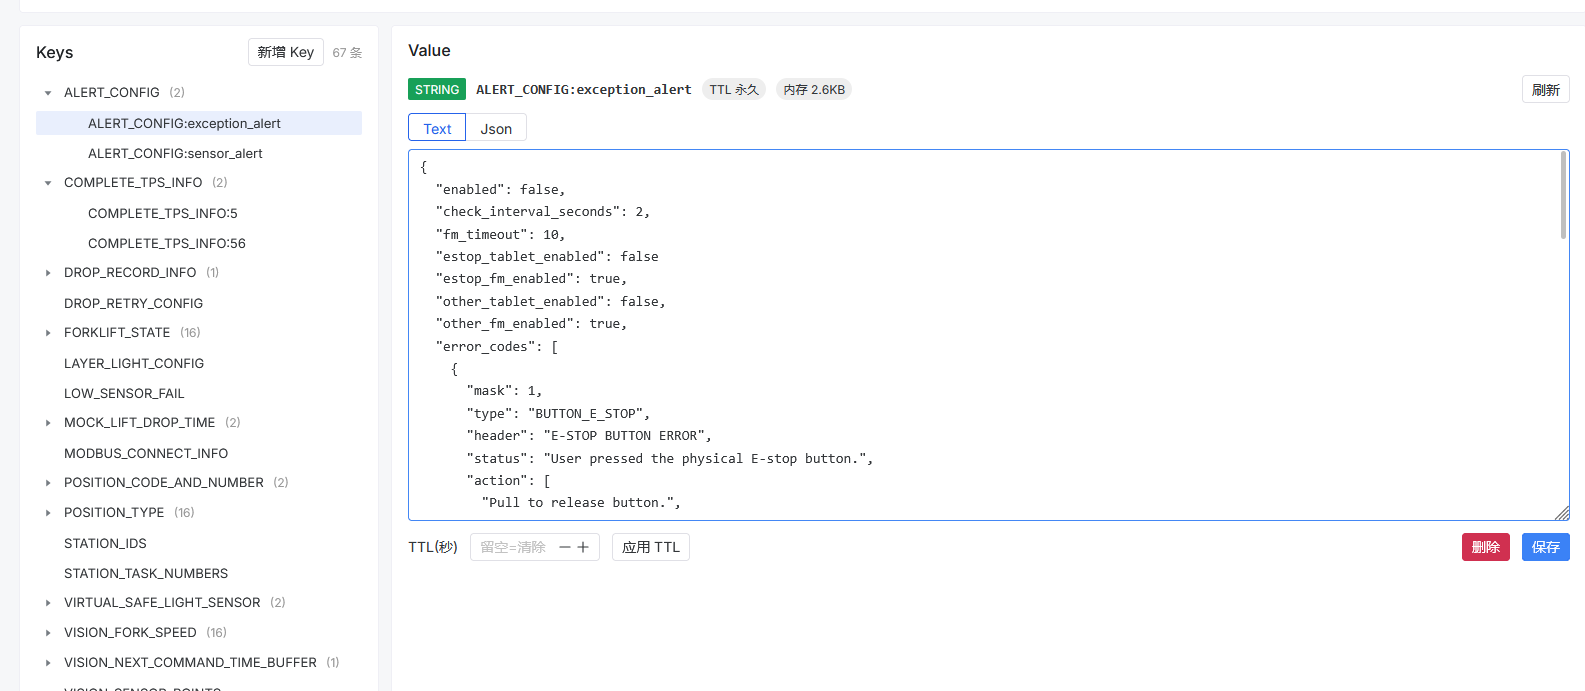
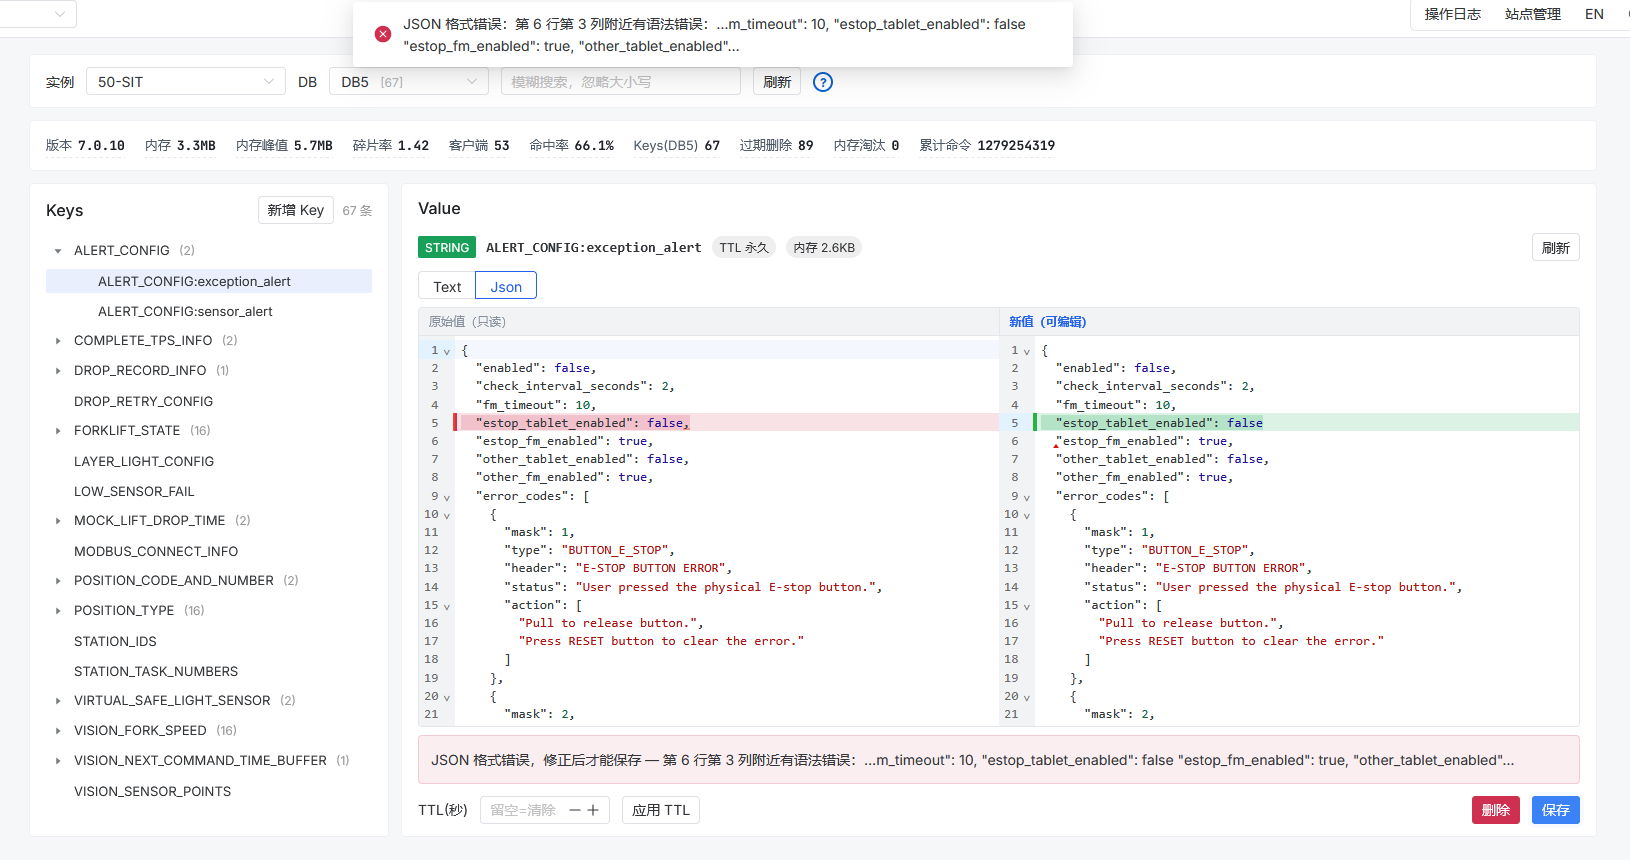
polish: compact axis labels, (Ns) rate labels, mq column rename + verified consumers, audit 200/10pp, redis 3s delete
Server:
- trend x-axis: mm:ss ticks (HH:mm:ss only on the first tick of a new
  hour), 8 labels, 10px, hideOverlap - seconds stay visible, no more
  sparse long labels
- top-processes command cell: :title full-text on hover
- metric card titles uniformly (3s)-suffixed; trend title simplified
  to 'CPU / 内存趋势 (3s)'; zombie modal reuses zombieList key to
  avoid double-suffix

MQ:
- honest rate labels: Heap cards (5s) (3s poll over 5s cache), Top-10
  backlog (15s); verbose '约 5s 采样' forms removed
- Top-10 bar tooltip now includes the queue's Address
- queue table headers: 逻辑名称 (Queue/订阅) / 物理地址 (Address)
- consumers column verified accurate: 12 queues cross-checked against
  direct Jolokia reads on both broker instances, all matched
  (ConsumerCount is the only valid per-queue attribute;
  TotalConsumerCount does not exist on queue mbeans)

Redis / audit:
- key-delete countdown 5s -> 3s
- invalid-JSON banner compacted (theme-var padding/fontSize, shake kept)
- oplog retention 1000 -> 200 (test now verifies the 200 cap), audit
  page 10 rows/page, time column single-line (165px nowrap), target
  column narrowed, hint simplified to '仅保留最近 200 条' (PRD suffix
  dropped), result column kept-but-compact (SSH/MQ/Redis failures are
  recorded FAILED with error text)

103 backend tests, 13 frontend tests, build green. Stamp b0929-1759.

diff --git a/frontend/src/i18n/index.ts b/frontend/src/i18n/index.ts
@@ -12,7 +12,7 @@ const messages = {
         lines: [
           '本页展示当前站点的整体健康状态：各资源类型的数量与最严重诊断级别。',
           '任一资源异常都会汇总到「异常摘要」，点击卡片可跳转到对应模块。',
-          '「最近操作」来自操作日志（保留最近 1000 条），记录所有修改/删除类操作。',
+          '「最近操作」来自操作日志（保留最近 200 条），记录所有修改/删除类操作。',
           '后台每 30 秒对全部启用资源做一轮轻量健康检查；也可点击「立即检查」手动触发。',
         ],
       },
@@ -103,14 +103,14 @@ const messages = {
       select: '选择服务器',
       noServers: '该站点暂无 Server 资源',
       refresh: '刷新',
-      cpu: 'CPU',
-      memory: '内存',
-      network: '网络',
-      disk: '磁盘',
+      cpu: 'CPU (3s)',
+      memory: '内存 (3s)',
+      network: '网络 (3s)',
+      disk: '磁盘 (3s)',
       diskTable: '磁盘 (3s)',
       topProcesses: 'Top 进程 (3s)',
       autoRefresh: '数据每 3 秒自动刷新',
-      trend: 'CPU / 内存趋势（3s 轮询采样）',
+      trend: 'CPU / 内存趋势 (3s)',
       issues: '诊断问题',
       level: '级别',
       type: '类型',
@@ -144,7 +144,7 @@ const messages = {
       issue_LOAD_HIGH: '系统负载 {value}（阈值 {threshold}，超过核数说明任务在排队）',
       emptyMetrics: '该站点暂无服务器配置',
       thresholdNote: '≥80% 警告、≥90% 严重',
-      zombies: '僵尸进程',
+      zombies: '僵尸进程 (3s)',
       killZombie: '终止',
       zombieList: '僵尸进程列表',
       zombieEmpty: '没有僵尸进程',
@@ -155,9 +155,9 @@ const messages = {
       instance: '选择 Artemis',
       brokerStatus: 'Broker',
       worstQueue: '队列最差状态',
-      heap: 'JVM Heap（约 5s 采样）',
-      heapTrend: 'Heap 趋势（约 5s 采样）',
-      topQueues: '队列堆积 Top 10',
+      heap: 'JVM Heap (5s)',
+      heapTrend: 'Heap 趋势 (5s)',
+      topQueues: '队列堆积 Top 10 (15s)',
       queues: 'Topics / Queues',
       version: '版本',
       uptime: '运行',
@@ -186,20 +186,21 @@ const messages = {
       nonHeap: 'NonHeap',
       threads: '线程',
       addrMemTitle: 'Address 内存（global-max-size 占比）',
-      heapDistTitle: 'JVM Heap 分布',
+      heapDistTitle: 'JVM Heap 分布 (5s)',
       addrMemLine: '地址内存 {used} / {max}',
       heapLine: '已用 {used} / {max}',
       noGlobalMax: '该 Broker 未报告 global-max-size',
       addrMem: 'Address Memory',
       free: 'Free',
       usedPie: 'Used',
-      queueCol: 'Topic / Queue',
-      addressCol: '所属 Address',
+      queueCol: '逻辑名称 (Queue/订阅)',
+      addressCol: '物理地址 (Address)',
       statusCol: '状态',
       messagesCol: '消息数',
       deliveringCol: 'Delivering',
       added1mCol: '1m 新增',
       trendTip: '1 分钟 +{a1} 条 · 5 分钟 +{a5} 条',
+      topQueueTip: '{name}<br/>{address}<br/>{count} 条',
       purge: '清空',
       noMatch: '无匹配队列',
       noGlobalMaxNote: '该 Broker 未报告 global-max-size',
@@ -370,7 +371,7 @@ const messages = {
     },
     audit: {
       title: '操作日志',
-      hint: '仅保留最近 1000 条 · 无用户维度（PRD §17）',
+      hint: '仅保留最近 200 条',
       colTime: '时间',
       colSite: '站点',
       colResource: '资源',
@@ -459,7 +460,7 @@ const messages = {
         lines: [
           'This page shows overall site health: resource counts and the worst diagnosis level per type.',
           'Any abnormal resource is summarised in the issue list; clicking a card jumps to its module.',
-          'Recent operations come from the audit log (last 1000 kept) and record every mutating action.',
+          'Recent operations come from the audit log (last 200 kept) and record every mutating action.',
           'A lightweight health check runs every 30s across all enabled resources; use "Check now" to trigger manually.',
         ],
       },
@@ -549,14 +550,14 @@ const messages = {
       select: 'Select server',
       noServers: 'No Server resources in this site',
       refresh: 'Refresh',
-      cpu: 'CPU',
-      memory: 'Memory',
-      network: 'Network',
-      disk: 'Disk',
+      cpu: 'CPU (3s)',
+      memory: 'Memory (3s)',
+      network: 'Network (3s)',
+      disk: 'Disk (3s)',
       diskTable: 'Disk (3s)',
       topProcesses: 'Top Processes (3s)',
       autoRefresh: 'Auto-refreshes every 3s',
-      trend: 'CPU / Memory trend (3s polling)',
+      trend: 'CPU / Memory trend (3s)',
       issues: 'Diagnosis',
       level: 'Level',
       type: 'Type',
@@ -590,7 +591,7 @@ const messages = {
       issue_LOAD_HIGH: 'System load {value} (threshold {threshold}; above core count means queuing)',
       emptyMetrics: 'No servers configured for this site',
       thresholdNote: '>=80% warning, >=90% critical',
-      zombies: 'Zombie Processes',
+      zombies: 'Zombie Processes (3s)',
       killZombie: 'Kill',
       zombieList: 'Zombie process list',
       zombieEmpty: 'No zombie processes',
@@ -601,9 +602,9 @@ const messages = {
       instance: 'Select Artemis',
       brokerStatus: 'Broker',
       worstQueue: 'Worst queue status',
-      heap: 'JVM Heap (~5s sampling)',
-      heapTrend: 'Heap trend (~5s sampling)',
-      topQueues: 'Top 10 queue backlog',
+      heap: 'JVM Heap (5s)',
+      heapTrend: 'Heap trend (5s)',
+      topQueues: 'Top 10 queue backlog (15s)',
       queues: 'Topics / Queues',
       version: 'Version',
       uptime: 'Uptime',
@@ -632,20 +633,21 @@ const messages = {
       nonHeap: 'NonHeap',
       threads: 'Threads',
       addrMemTitle: 'Address memory (vs global-max-size)',
-      heapDistTitle: 'JVM Heap distribution',
+      heapDistTitle: 'JVM Heap distribution (5s)',
       addrMemLine: 'Address memory {used} / {max}',
       heapLine: 'Used {used} / {max}',
       noGlobalMax: 'This broker does not report global-max-size',
       addrMem: 'Address Memory',
       free: 'Free',
       usedPie: 'Used',
-      queueCol: 'Topic / Queue',
-      addressCol: 'Address',
+      queueCol: 'Logical name (Queue)',
+      addressCol: 'Physical address (Address)',
       statusCol: 'Status',
       messagesCol: 'Messages',
       deliveringCol: 'Delivering',
       added1mCol: '1m added',
       trendTip: '+{a1} in 1 min · +{a5} in 5 min',
+      topQueueTip: '{name}<br/>{address}<br/>{count} msgs',
       purge: 'Purge',
       noMatch: 'No matching queues',
       addrMemUsed: 'Address memory',
@@ -815,7 +817,7 @@ const messages = {
     },
     audit: {
       title: 'Audit Log',
-      hint: 'Keeps the last 1000 entries only · no user dimension (PRD §17)',
+      hint: 'Keeps the last 200 entries only',
       colTime: 'Time',
       colSite: 'Site',
       colResource: 'Resource',

diff --git a/frontend/src/modules/server/ServerView.vue b/frontend/src/modules/server/ServerView.vue
@@ -162,15 +162,26 @@ const memPct = computed(() => {
   return m?.total && m?.used != null ? Math.round((m.used / m.total) * 1000) / 10 : null
 })
 
-// HH:mm:ss（手动补零：不受浏览器 locale 影响，en-US 会带 AM/PM）
-function hhmmss(ts: number): string {
-  const d = new Date(ts * 1000)
+// 紧凑刻度（Artemis 风格）：常规 mm:ss（秒保持可见）；跨小时后的首个"渲染刻度"保留 HH: 前缀兜底。
+// prevHour 只在渲染刻度上推进（i % (step+1) === 0，与 ECharts interval 语义一致），
+// 保证小时切换一定落在某个可见标签上。手动补零：不受浏览器 locale 影响（en-US 会带 AM/PM）
+function axisLabels(points: SamplePoint[], step: number): string[] {
   const p = (n: number) => String(n).padStart(2, '0')
-  return `${p(d.getHours())}:${p(d.getMinutes())}:${p(d.getSeconds())}`
+  let prevHour = -1
+  return points.map((pt, i) => {
+    const d = new Date(pt.ts * 1000)
+    const hms = `${p(d.getHours())}:${p(d.getMinutes())}:${p(d.getSeconds())}`
+    if (i % (step + 1) !== 0) return hms // 未渲染的刻度，内容无所谓
+    const full = d.getHours() !== prevHour
+    prevHour = d.getHours()
+    return full ? hms : hms.slice(3) // mm:ss
+  })
 }
 
 const trendOption = computed(() => {
-  const labels = cpuSeries.value.map((p) => hhmmss(p.ts))
+  // 固定步长取整秒标签（~8 个）：避免 ECharts 自动间隔导致标签"跳动"
+  const step = Math.max(0, Math.ceil(cpuSeries.value.length / 8) - 1)
+  const labels = axisLabels(cpuSeries.value, step)
   const memPoints = memSeries.value.map((p) => p.v)
   return {
     grid: { left: 44, right: 16, top: 36, bottom: 26 },
@@ -180,8 +191,9 @@ const trendOption = computed(() => {
       type: 'category',
       data: labels,
       axisLabel: {
-        // 固定步长取整秒标签（最多 ~6 个）：避免 ECharts 自动间隔导致标签"跳动"
-        interval: Math.max(0, Math.ceil(labels.length / 6) - 1),
+        interval: step,
+        fontSize: 10,
+        hideOverlap: true,
       },
     },
     yAxis: { type: 'value', max: 100, axisLabel: { formatter: '{value}%' } },
@@ -396,7 +408,7 @@ const diskColumns = computed<DataTableColumns<DiskRow>>(() => [
               <td>{{ p.pid }}</td>
               <td :style="{ color: pctColor(p.cpu_percent) }">{{ p.cpu_percent }}</td>
               <td>{{ p.mem_percent }}</td>
-              <td class="cmd">{{ p.command }}</td>
+              <td class="cmd" :title="p.command">{{ p.command }}</td>
             </tr>
           </tbody>
         </n-table>
@@ -423,7 +435,7 @@ const diskColumns = computed<DataTableColumns<DiskRow>>(() => [
       preset="card"
       :mask-closable="false"
       :close-on-esc="false"
-      :title="`${$t('server.zombies')} (${zombies.length})`"
+      :title="`${$t('server.zombieList')} (${zombies.length})`"
       style="width: 720px"
     >
       <n-spin :show="zombieLoading">

diff --git a/frontend/src/modules/overview/AuditView.vue b/frontend/src/modules/overview/AuditView.vue
@@ -7,7 +7,7 @@ import { auditApi, type AuditPage } from './api'
 const { t } = useI18n()
 const data = ref<AuditPage | null>(null)
 const page = ref(1)
-const size = 50
+const size = 10
 const loading = ref(false)
 
 async function load() {
@@ -28,14 +28,15 @@ function changePage(p: number) {
 type Row = NonNullable<AuditPage['items'][number]>
 
 const columns = computed(() => [
-  { title: t('audit.colTime'), key: 'time', width: 170, render: (row: Row) => (row.time ?? '').replace('T', ' ').slice(0, 19) },
+  // 时间列固定宽 + 禁止换行：'2026-09-29 16:20:33' 必须单行（换行两行太高）
+  { title: t('audit.colTime'), key: 'time', width: 165, className: 'nowrap', render: (row: Row) => (row.time ?? '').replace('T', ' ').slice(0, 19) },
   { title: t('audit.colSite'), key: 'site', width: 120 },
-  { title: t('audit.colResource'), key: 'resource', width: 180, className: 'mono', ellipsis: { tooltip: true } },
-  { title: t('audit.colOperation'), key: 'operation', width: 220 },
+  { title: t('audit.colResource'), key: 'resource', width: 170, className: 'mono', ellipsis: { tooltip: true } },
+  { title: t('audit.colOperation'), key: 'operation', width: 200 },
   {
     title: t('audit.colTarget'),
     key: 'target',
-    minWidth: 200,
+    minWidth: 140,
     className: 'mono',
     ellipsis: { tooltip: true },
     render: (row: Row) => row.target ?? '-',
@@ -43,7 +44,7 @@ const columns = computed(() => [
   {
     title: t('audit.colResult'),
     key: 'result',
-    width: 100,
+    width: 90,
     render: (row: Row) =>
       h(NTag, { type: row.result === 'SUCCESS' ? 'success' : 'error', size: 'small', bordered: false }, { default: () => row.result }),
   },
@@ -68,5 +69,8 @@ const columns = computed(() => [
 <style>
 .audit-table td.mono {
   font-family: var(--ops-font-mono);
+}
+.audit-table td.nowrap {
+  white-space: nowrap;
 }
 </style>

diff --git a/frontend/src/modules/redis/RedisView.vue b/frontend/src/modules/redis/RedisView.vue
@@ -658,10 +658,10 @@ const INFO_METRICS = computed(() => {
             <n-input v-else v-model:value="editText" type="textarea"
               :rows="16" :input-props="{ spellcheck: false }" class="mono" />
 
-            <!-- JSON 语法错误横幅：编辑器内有红波浪线+浅红底色，这里给出行/列定位
-                 （Json 视图，或 JSON 值的 key 在 Text 视图被改坏） -->
+            <!-- JSON 语法错误横幅（编辑器与操作行之间，紧凑样式）：编辑器内有红波浪线
+                 +浅红底色，这里给出行/列定位（Json 视图，或 JSON 值的 key 在 Text 视图被改坏） -->
             <n-alert v-if="jsonInvalid" type="error" :show-icon="false" :class="{ shake: bannerShake }"
-              style="margin-top: 8px">
+              style="margin-top: 6px" :theme-overrides="{ padding: '4px 12px', fontSize: '12px' }">
               {{ $t('redis.jsonInvalidTitle') }} — {{ jsonInvalid }}
             </n-alert>
 
@@ -672,7 +672,7 @@ const INFO_METRICS = computed(() => {
                 :placeholder="$t('redis.ttlPh')" />
               <n-button size="small" @click="applyTtl">{{ $t('redis.applyTtl') }}</n-button>
               <div style="flex: 1" />
-              <countdown-confirm :label="$t('common.delete')" :target="detail.key" :seconds="5" @confirm="deleteKey" />
+              <countdown-confirm :label="$t('common.delete')" :target="detail.key" :seconds="3" @confirm="deleteKey" />
               <!-- 不禁用按钮：点击时校验并弹明确错误（禁用会让用户不知道为何点不了）；
                    校验必须在开弹窗前做：弹窗内 toast 会被遮罩盖住（见 openSaveConfirm 注释） -->
               <n-button size="small" type="primary" :loading="saving"

diff --git a/frontend/src/modules/mq/MqView.vue b/frontend/src/modules/mq/MqView.vue
@@ -1,5 +1,6 @@
 <script setup lang="ts">
 import { computed, inject, onBeforeUnmount, onMounted, ref, watch, type Ref } from 'vue'
+import { useI18n } from 'vue-i18n'
 import { NButton, NCard, NInput, NSelect, NSpace, NSpin, NTable, NTooltip, useMessage } from 'naive-ui'
 import CountdownConfirm from '../../components/CountdownConfirm.vue'
 import EmptyState from '../../components/EmptyState.vue'
@@ -14,6 +15,7 @@ import { fmtBytes, pctColor } from '../../utils/format'
 
 const siteStore = useSiteStore()
 const message = useMessage()
+const { t } = useI18n()
 
 const instances = ref<Array<{ label: string; value: string }>>([])
 const instanceId = ref<string | null>(null)
@@ -176,7 +178,15 @@ const topQueuesOption = computed(() => {
     .slice(0, 10)
   return {
     grid: { left: 10, right: 40, top: 10, bottom: 10, containLabel: true },
-    tooltip: { trigger: 'axis' },
+    tooltip: {
+      trigger: 'axis',
+      // 悬浮展示队列名 + 所属 Address + 消息数（y 轴类目只有名字，Address 从 dataIndex 取回）
+      formatter: (params: Array<{ dataIndex: number }>) => {
+        const q = top[params[0]?.dataIndex]
+        if (!q) return ''
+        return t('mq.topQueueTip', { name: q.name, address: q.address ?? '-', count: q.message_count ?? '-' })
+      },
+    },
     xAxis: { type: 'value' },
     yAxis: {
       type: 'category',

diff --git a/frontend/src/layouts/MainLayout.vue b/frontend/src/layouts/MainLayout.vue
@@ -138,7 +138,7 @@ function onSiteSelect(id: string) {
           <button class="collapse-btn" :title="collapsed ? $t('layout.expand') : $t('layout.collapse')" @click="collapsed = !collapsed">
             <n-icon :component="collapsed ? ChevronForwardOutline : ChevronBackOutline" :size="16" />
           </button>
-          <span v-if="!collapsed" class="build-stamp">b0929-1636</span>
+          <span v-if="!collapsed" class="build-stamp">b0929-1759</span>
         </div>
       </aside>
       <main class="app-main">

diff --git a/backend/tests/test_oplog.py b/backend/tests/test_oplog.py
@@ -2,8 +2,8 @@ from backend.app.core import oplog
 from backend.app.core.oplog import OPLOG_KEY, OPLOG_MAX
 
 
-async def test_oplog_trimmed_to_1000(fake_platform_redis):
-    """PRD §17.1：写入超 1000 条后仅保留最近 1000。"""
+async def test_oplog_trimmed_to_200(fake_platform_redis):
+    """写入超 200 条后仅保留最近 200。"""
     for i in range(OPLOG_MAX + 5):
         await oplog.record(site="s", resource="redis-01", operation="DELETE_KEY", target=f"k{i}")
 

diff --git a/backend/app/core/oplog.py b/backend/app/core/oplog.py
@@ -4,7 +4,7 @@ from datetime import datetime, timezone
 from .redis import get_platform_redis
 
 OPLOG_KEY = "ops:oplog"
-OPLOG_MAX = 1000  # PRD §17.1：只保留最近 1000 条
+OPLOG_MAX = 200  # 只保留最近 200 条（原 1000，2026-09 收紧）
 
 
 async def record(
